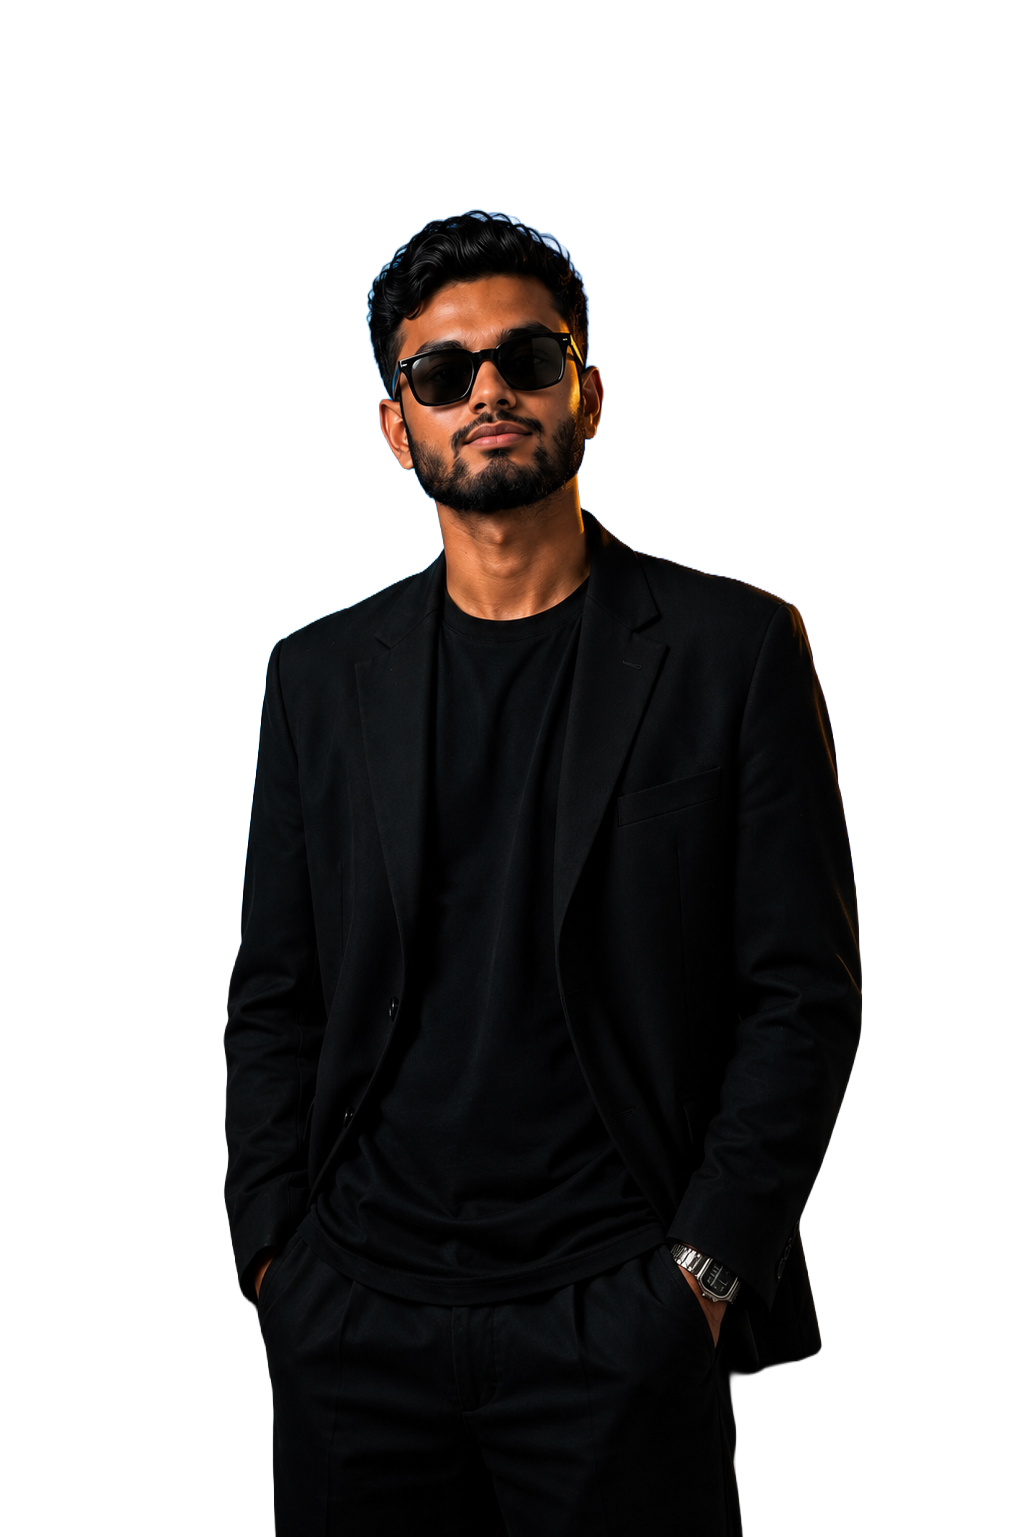
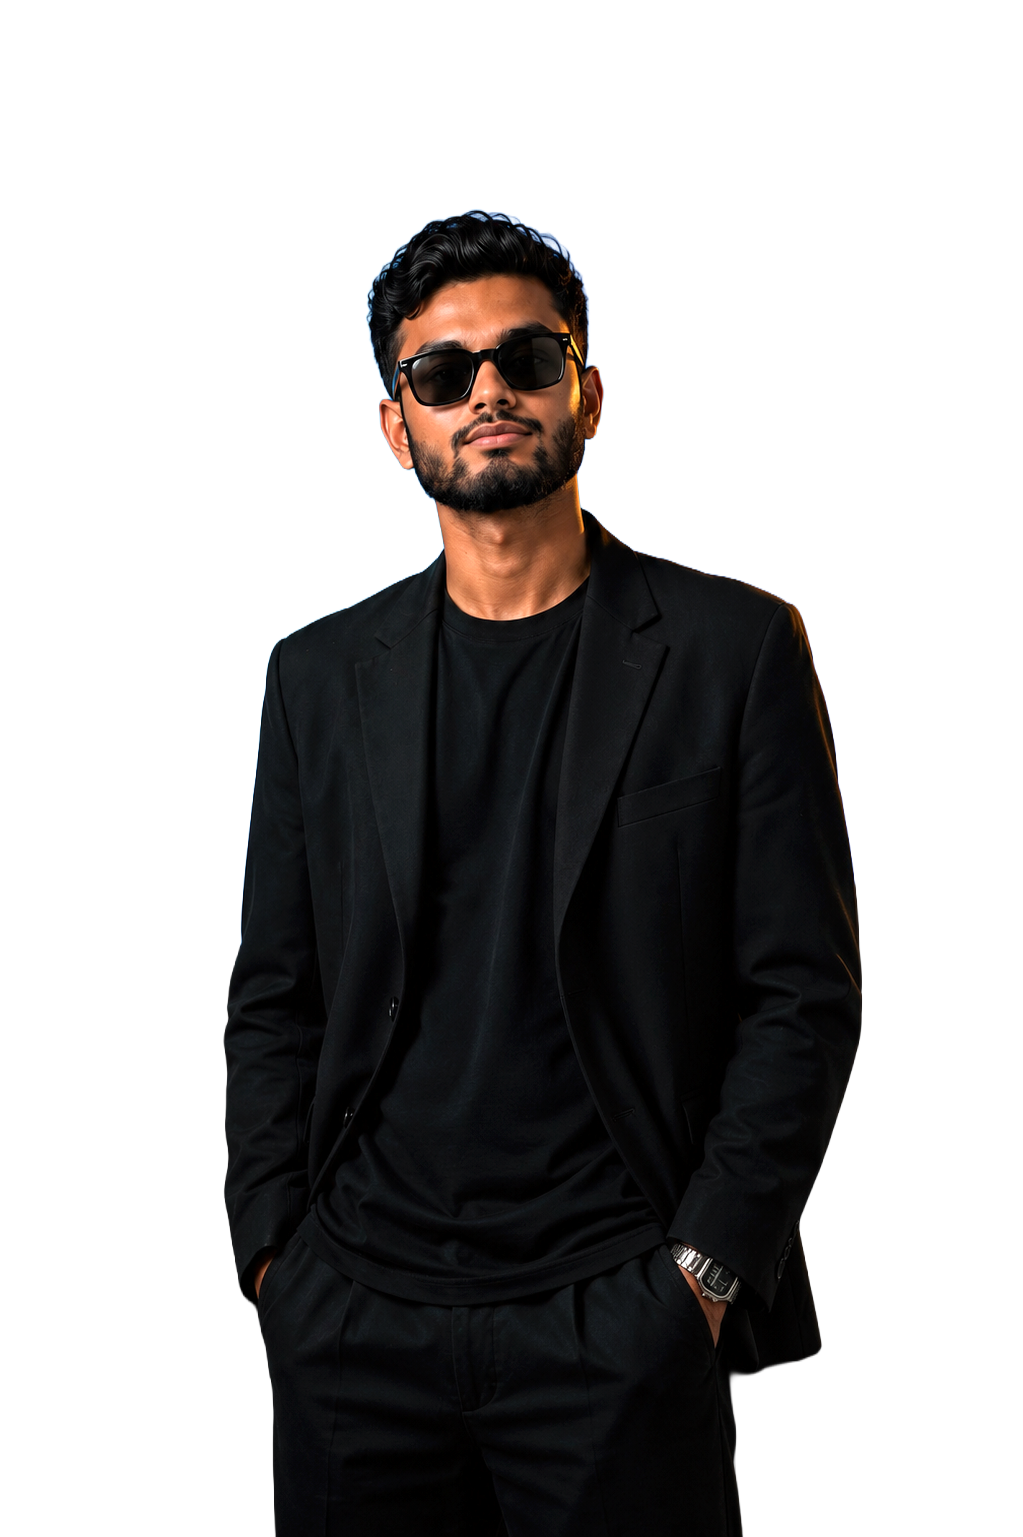
design: update hero photo and build futuristic HUD interactive frame animation

Changed region(s): [[0.3636, 0.1561, 0.6061, 0.406], [0.6667, 0.812, 0.697, 0.8432]]

diff --git a/portfolio-react/src/components/HeroPhoto.css b/portfolio-react/src/components/HeroPhoto.css
@@ -1,32 +1,71 @@
 /* ═══════════════════════════════════════════════════════════════
    HeroPhoto.css
-   Effet : anneau lumineux tournant + coins angulaires + scanline
-   Compatible React (CSS Module-free, classe préfixée hero-photo)
+   Effet : anneau de dégradé néon tournant + coins HUD réactifs + scanline cyan + glow d'ambiance pulsant
    ═══════════════════════════════════════════════════════════════ */
 
 /* ── Conteneur principal ─────────────────────────────────────── */
 .hero-photo-wrapper {
   position: relative;
-
-  /* Adapte ces valeurs à la taille de ta photo actuelle */
   width: 320px;
   height: 460px;
-
-  /* Laisse dépasser le ring (2px de chaque côté) */
   padding: 2px;
-
   border-radius: 20px;
-
-  /* Isole les effets internes */
   isolation: isolate;
+  transition: transform 0.5s cubic-bezier(0.25, 1, 0.5, 1);
 }
 
+/* Effet 3D subtil au survol */
+.hero-photo-wrapper:hover {
+  transform: translateY(-5px) scale(1.02);
+}
 
-/* ── ① Anneau lumineux tournant ──────────────────────────────── */
-/*
-   Le ring est un conic-gradient qui tourne indéfiniment.
-   Il crée l'effet "bord lumineux" sans toucher à ton image.
-*/
+/* Double contour externe qui s'étend */
+.hero-photo-wrapper::after {
+  content: '';
+  position: absolute;
+  inset: -6px;
+  border: 1px solid rgba(14, 165, 233, 0.2);
+  border-radius: 26px;
+  z-index: -1;
+  pointer-events: none;
+  transition: inset 0.6s cubic-bezier(0.25, 1, 0.5, 1), border-color 0.6s ease;
+}
+
+.hero-photo-wrapper:hover::after {
+  inset: -12px;
+  border-color: rgba(14, 165, 233, 0.45);
+}
+
+/* ── Glow d'ambiance arrière-plan ────────────────────────────── */
+.hero-photo-glow {
+  position: absolute;
+  inset: -20px;
+  background: radial-gradient(circle, rgba(14, 165, 233, 0.35) 0%, rgba(168, 85, 247, 0.15) 50%, transparent 80%);
+  z-index: -2;
+  filter: blur(25px);
+  pointer-events: none;
+  border-radius: 50%;
+  opacity: 0.7;
+  animation: hero-glow-pulse 4s ease-in-out infinite alternate;
+  transition: opacity 0.5s ease;
+}
+
+.hero-photo-wrapper:hover .hero-photo-glow {
+  opacity: 1;
+}
+
+@keyframes hero-glow-pulse {
+  0% {
+    transform: scale(0.9) rotate(0deg);
+    filter: blur(20px);
+  }
+  100% {
+    transform: scale(1.1) rotate(180deg);
+    filter: blur(30px);
+  }
+}
+
+/* ── ① Anneau lumineux tournant (Néon Dégradé) ───────────────── */
 .hero-photo-ring {
   position: absolute;
   inset: 0;
@@ -35,17 +74,14 @@
 
   background: conic-gradient(
     from 0deg,
-    transparent   0deg,
-    rgba(255, 255, 255, 0.85) 50deg,
-    rgba(255, 255, 255, 0.15) 100deg,
-    transparent  160deg,
-    transparent  200deg,
-    rgba(255, 255, 255, 0.40) 230deg,
-    transparent  280deg,
-    transparent  360deg
+    transparent 0deg,
+    var(--color-creative-blue) 90deg,
+    #a855f7 180deg,
+    #ffffff 270deg,
+    transparent 360deg
   );
 
-  animation: hero-ring-spin 4s linear infinite;
+  animation: hero-ring-spin 5s linear infinite;
 }
 
 @keyframes hero-ring-spin {
@@ -53,22 +89,14 @@
   to   { transform: rotate(360deg); }
 }
 
-/* Variante plus lente si tu préfères (remplace 4s par 8s ci-dessus) */
-
-
 /* ── ② Fond intermédiaire ────────────────────────────────────── */
-/*
-   Masque le ring sous la photo pour qu'on ne le voie
-   qu'en bordure. Garde la même couleur que ton fond de page.
-*/
 .hero-photo-bg {
   position: absolute;
-  inset: 2px;           /* épaisseur du ring visible = 2px */
-  border-radius: 18px;  /* légèrement inférieur au wrapper */
-  background: radial-gradient(circle at 50% 35%, rgba(14, 165, 233, 0.22) 0%, rgba(8, 12, 28, 0.95) 65%, #030408 100%);
+  inset: 2px;
+  border-radius: 18px;
+  background: radial-gradient(circle at 50% 30%, rgba(14, 165, 233, 0.15) 0%, rgba(8, 12, 28, 0.98) 70%, #030408 100%);
   z-index: 1;
 }
-
 
 /* ── ③ Photo ─────────────────────────────────────────────────── */
 .hero-photo-img {
@@ -80,100 +108,122 @@
   object-fit: cover;
   object-position: center;
   z-index: 2;
+  transition: transform 0.6s cubic-bezier(0.25, 1, 0.5, 1), filter 0.6s ease;
 }
 
+.hero-photo-wrapper:hover .hero-photo-img {
+  transform: scale(1.04);
+}
 
-/* ── ④ Ligne de scan ─────────────────────────────────────────── */
-/*
-   Trait lumineux qui descend de haut en bas en boucle.
-   Effet "surveillance camera" / tech très discret.
-*/
+/* ── ④ Ligne de scan (Cyan Neon) ────────────────────────────── */
 .hero-photo-scanline {
   position: absolute;
   left: 2px;
   right: 2px;
-  height: 1px;
+  height: 2px;
   background: linear-gradient(
     90deg,
     transparent 0%,
-    rgba(255, 255, 255, 0.25) 30%,
-    rgba(255, 255, 255, 0.50) 50%,
-    rgba(255, 255, 255, 0.25) 70%,
+    rgba(14, 165, 233, 0.3) 20%,
+    #0ea5e9 50%,
+    rgba(14, 165, 233, 0.3) 80%,
     transparent 100%
   );
+  box-shadow: 0 0 10px rgba(14, 165, 233, 0.8), 0 0 20px rgba(14, 165, 233, 0.4);
   z-index: 3;
   pointer-events: none;
-
-  animation: hero-scan 3.5s ease-in-out infinite;
+  animation: hero-scan 4s ease-in-out infinite;
 }
 
 @keyframes hero-scan {
   0%   { top: 2px;   opacity: 0; }
-  5%   { opacity: 1; }
-  95%  { opacity: 0.6; }
-  100% { top: calc(100% - 2px); opacity: 0; }
+  10%  { opacity: 1; }
+  90%  { opacity: 1; }
+  100% { top: calc(100% - 4px); opacity: 0; }
 }
 
-
-/* ── ⑤ Coins angulaires (viewfinder) ────────────────────────── */
-/*
-   4 coins positionnés aux angles du wrapper.
-   Chaque coin = 2 traits perpendiculaires (border-top + border-left etc.)
-*/
+/* ── ⑤ Coins angulaires (HUD / Viewfinder réactifs) ──────────── */
 .hero-corner {
   position: absolute;
-  width: 18px;
-  height: 18px;
-  border-color: rgba(255, 255, 255, 0.6);
+  width: 22px;
+  height: 22px;
+  border-color: rgba(14, 165, 233, 0.5);
   border-style: solid;
   z-index: 4;
   pointer-events: none;
-  transition: border-color 0.3s ease;
-}
-
-/* Léger glow au survol de toute la carte */
-.hero-photo-wrapper:hover .hero-corner {
-  border-color: rgba(255, 255, 255, 0.95);
+  transition: all 0.5s cubic-bezier(0.25, 1, 0.5, 1);
 }
 
 .hero-corner--tl {
-  top: -1px;
-  left: -1px;
-  border-width: 2px 0 0 2px;
-  border-radius: 5px 0 0 0;
+  top: -2px;
+  left: -2px;
+  border-width: 3px 0 0 3px;
+  border-radius: 6px 0 0 0;
 }
 
 .hero-corner--tr {
-  top: -1px;
-  right: -1px;
-  border-width: 2px 2px 0 0;
-  border-radius: 0 5px 0 0;
+  top: -2px;
+  right: -2px;
+  border-width: 3px 3px 0 0;
+  border-radius: 0 6px 0 0;
 }
 
 .hero-corner--bl {
-  bottom: -1px;
-  left: -1px;
-  border-width: 0 0 2px 2px;
-  border-radius: 0 0 0 5px;
+  bottom: -2px;
+  left: -2px;
+  border-width: 0 0 3px 3px;
+  border-radius: 0 0 0 6px;
 }
 
 .hero-corner--br {
-  bottom: -1px;
-  right: -1px;
-  border-width: 0 2px 2px 0;
-  border-radius: 0 0 5px 0;
+  bottom: -2px;
+  right: -2px;
+  border-width: 0 3px 3px 0;
+  border-radius: 0 0 6px 0;
 }
 
+/* Effet d'expansion et de surbrillance néon au survol */
+.hero-photo-wrapper:hover .hero-corner {
+  border-color: #ffffff;
+  box-shadow: 0 0 15px rgba(255, 255, 255, 0.8);
+}
+
+.hero-photo-wrapper:hover .hero-corner--tl {
+  transform: translate(-10px, -10px);
+}
+
+.hero-photo-wrapper:hover .hero-corner--tr {
+  transform: translate(10px, -10px);
+}
+
+.hero-photo-wrapper:hover .hero-corner--bl {
+  transform: translate(-10px, 10px);
+}
+
+.hero-photo-wrapper:hover .hero-corner--br {
+  transform: translate(10px, 10px);
+}
 
 /* ── Responsive ─────────────────────────────────────────────── */
 @media (max-width: 768px) {
   .hero-photo-wrapper {
-    width: 220px;
-    height: 320px;
+    width: 240px;
+    height: 340px;
   }
+  .hero-corner {
+    width: 16px;
+    height: 16px;
+    border-width: 2px;
+  }
+  .hero-photo-wrapper:hover .hero-corner--tl { transform: translate(-6px, -6px); }
+  .hero-photo-wrapper:hover .hero-corner--tr { transform: translate(6px, -6px); }
+  .hero-photo-wrapper:hover .hero-corner--bl { transform: translate(-6px, 6px); }
+  .hero-photo-wrapper:hover .hero-corner--br { transform: translate(6px, 6px); }
 }
 
 @media (prefers-reduced-motion: reduce) {
+  .hero-photo-wrapper { transform: none !important; }
   .hero-photo-ring    { animation: none; }
   .hero-photo-scanline { animation: none; }
+  .hero-photo-glow    { animation: none; }
 }

diff --git a/portfolio-react/src/components/HeroPhoto.jsx b/portfolio-react/src/components/HeroPhoto.jsx
@@ -3,6 +3,8 @@ import './HeroPhoto.css';
 const HeroPhoto = ({ src, alt = 'Tharsanan' }) => {
   return (
     <div className="hero-photo-wrapper">
+      {/* Glow d'ambiance en arrière-plan */}
+      <div className="hero-photo-glow" aria-hidden="true" />
 
       {/* ① Anneau lumineux tournant */}
       <div className="hero-photo-ring" aria-hidden="true" />
